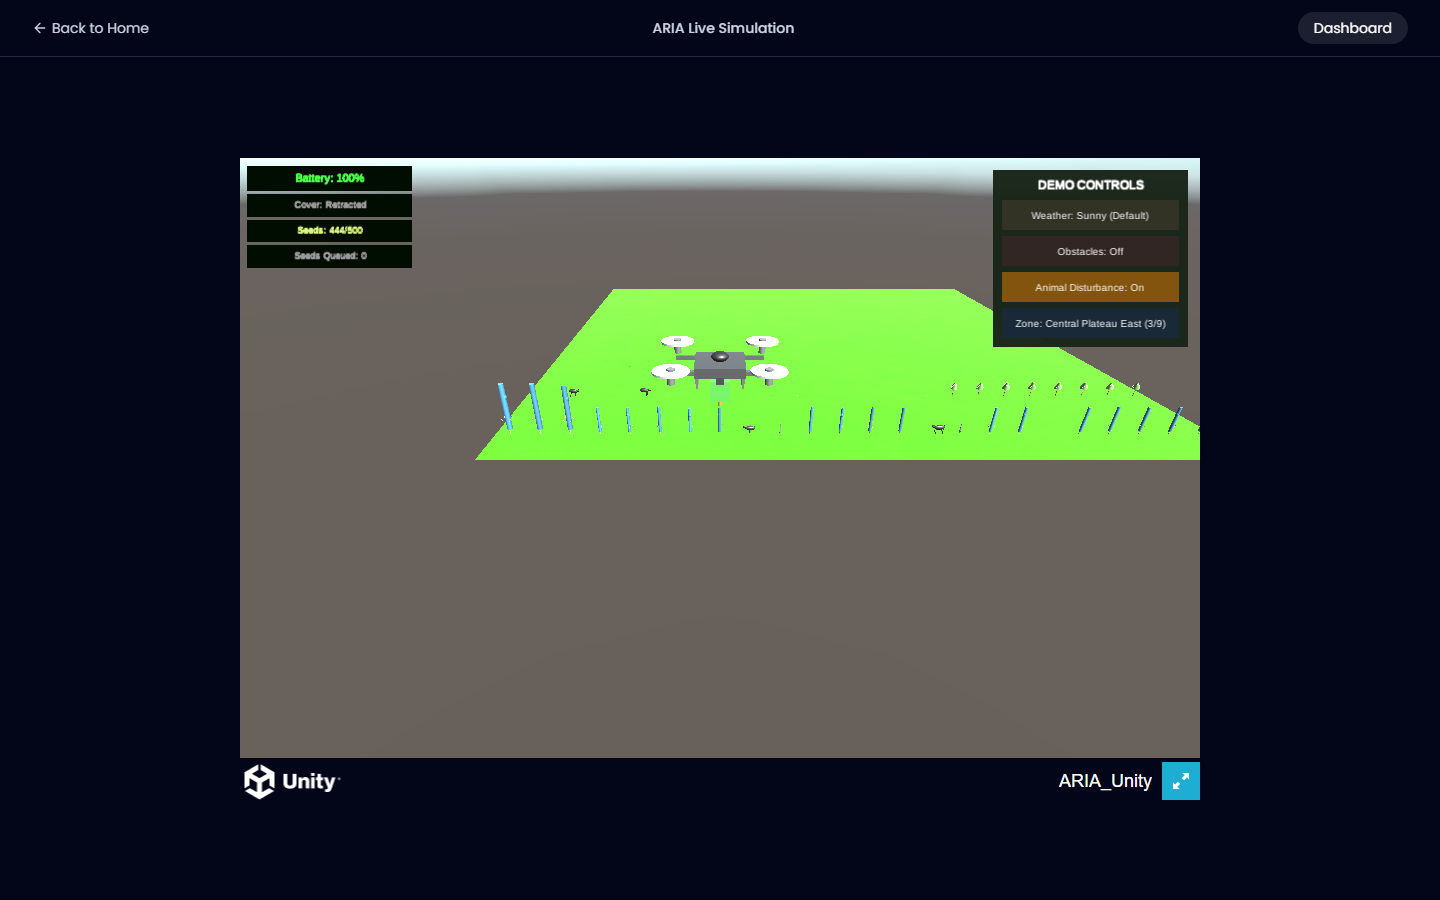
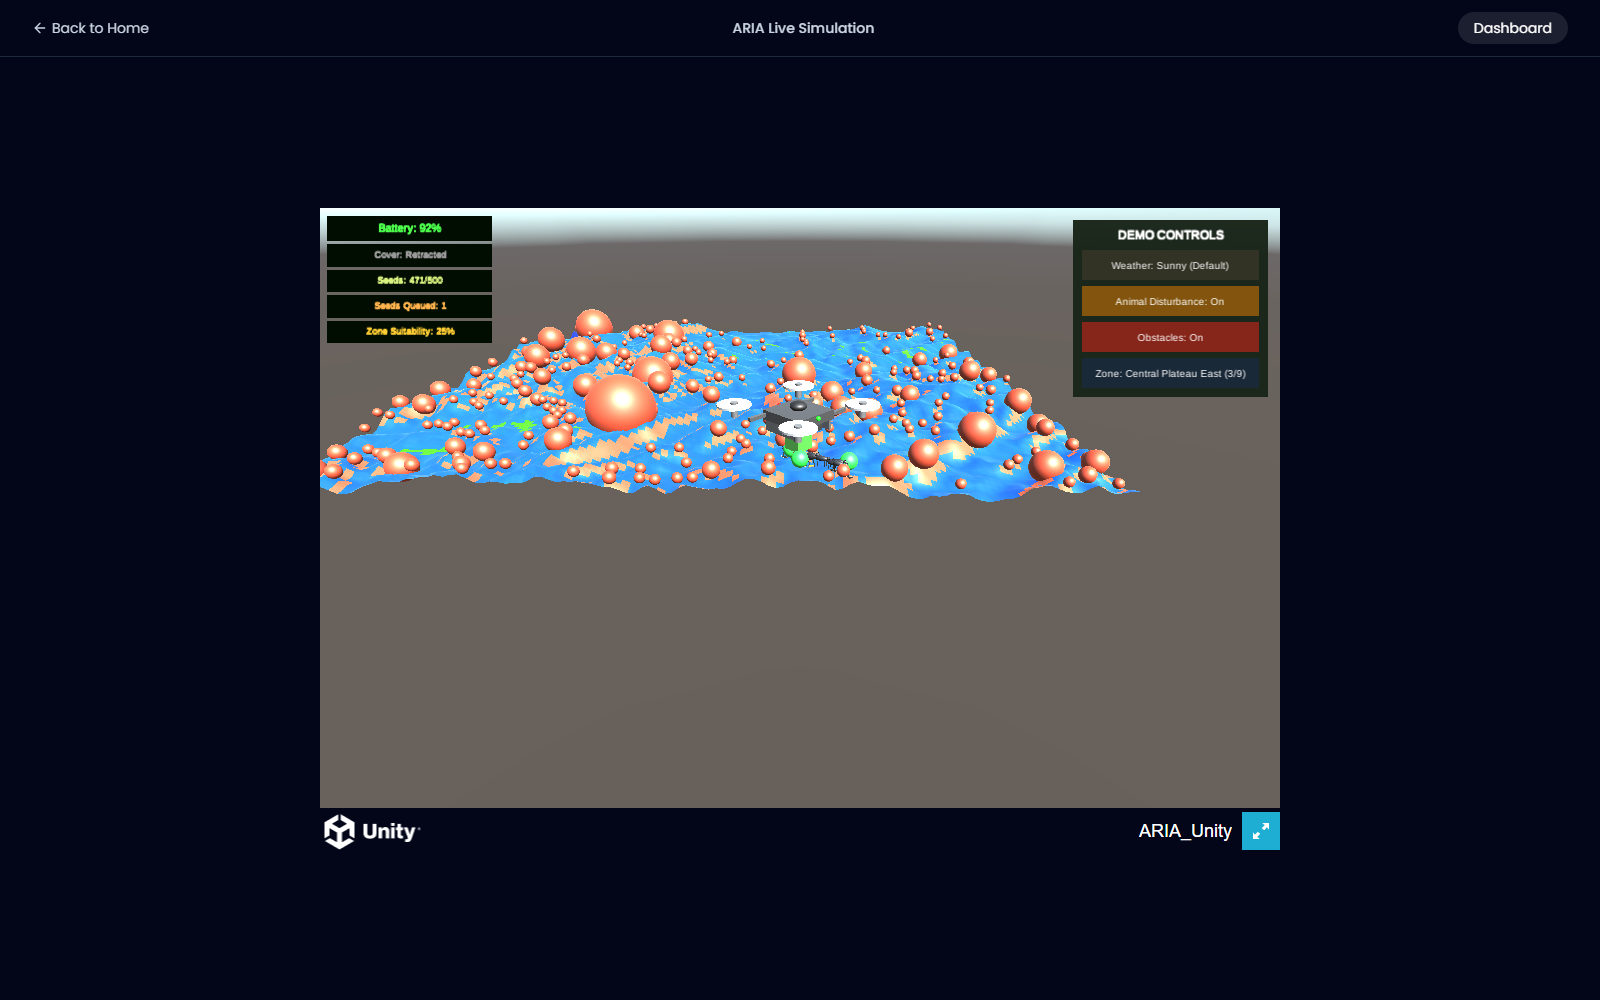
docs: Refresh testing evidence against the rebuilt/redeployed simulation
Re-captured screenshots for all 7 key features directly against
production after this session's rwanda_env.py parity fixes and the
Force Sunny battery bug fix, and rewrote the corresponding README
sections (Testing Strategies, Evidence, Analysis) to describe what was
actually re-verified live rather than carrying over stale claims:

- Documents the full parity-audit findings and the live re-verification
  of the battery boundary tests (Force Sunny holds flat, Force Rainy
  reaches critical and terminates immediately, no scripted return).
- Documents a new bug found and fixed during this exact testing pass:
  Force Sunny wasn't actually letting the battery recharge.
- Documents the end-to-end telemetry pipeline verification (forced a
  real episode to completion and confirmed the dashboard reflects it).
- Corrects stale dashboard numbers/reward claims left over from the
  schema simplification earlier this project (dashboard no longer
  tracks reward at all; episode history reset when the schema's
  baseline migration was re-established).
- Drops the "unattended 14-minute mission complete" screenshot
  reference -- that file went missing from disk outside of any command
  run this session and could not be re-captured in this pass.

diff --git a/README.md b/README.md
@@ -160,55 +160,59 @@ All testing below was performed directly against the **live production deploymen
 
 ### Testing Strategies Used
 - **Functional/manual testing**: exercising each of the 7 core features via the in-sim "Demo Controls" panel, which forces specific conditions (weather, disturbance, zone) on demand rather than waiting for them to occur naturally.
-- **Boundary/edge-case testing**: forced battery to its critical threshold to verify the emergency-response path. An earlier build branched this on weather (sunny cancelled an in-progress critical return, rainy forced a full return-and-land); a later full parity audit against `rwanda_env.py` found that split had no basis in the trained environment, which terminates on critical battery immediately and unconditionally regardless of weather, and removed it (see Discussion). The fix is not yet re-verified live, pending a new WebGL build.
+- **Boundary/edge-case testing**: forced battery to its critical threshold via the "Force Rainy" demo control to verify the emergency-response path, and separately forced "Force Sunny" to verify the recharge/hold path. An earlier build branched the return logic on weather (sunny cancelled an in-progress critical return, rainy forced a full return-and-land); a full parity audit against `rwanda_env.py` found that split had no basis in the trained environment, which terminates on critical battery immediately and unconditionally regardless of weather, and removed it (see Discussion). Re-verified live post-fix: under "Force Rainy" the battery fell from 100% to the 5% critical floor in under 75 seconds and the episode terminated immediately, no scripted return flight; under "Force Sunny" the battery held flat at 100% rather than continuing to fall. That second check caught a real, separate bug during this same test pass: "Force Sunny" originally set effective rainfall to a value still close enough to the sunny/rainy threshold that solar income stayed well below drain, so battery kept falling even while the button read "Force Sunny" (confirmed live: 53% -> 39% over 15 seconds). Fixed by setting `ForceSunny`'s effective rainfall to exactly 0, redeployed, and re-confirmed live.
 - **Unattended/automatic behavior testing**: loaded the simulation and let it run completely untouched, no demo-control clicks at all, for a full 14 minutes, to confirm the systems that are supposed to run on their own actually do, including the ones that only reveal themselves over a long, hands-off window. The battery dropped `99% -> 89% -> 78%` over the first 6 minutes under default (real-data) weather, a clean, monotonic decline with zero operator input, which is what an earlier buggy build (solar income exactly cancelling the drain constant, pinning battery at 100% forever) would have failed. In this specific run the mission itself finished, with 499/500 seeds placed, before the battery reached its critical threshold; the drone landed and, with no further movement drain and solar still active while grounded, battery recovered to 98% and held there for the rest of the window. That is a genuine result worth stating plainly rather than reframing: this run demonstrates an efficient policy that completes its mission well inside its energy budget, not the critical-battery auto-return path. That path is not just theoretical, though: the 9-zone evaluation below independently confirms it fires regularly (`battery_empty_events` up to 0.84 per episode in some zones), it simply didn't fire in this one untouched browser session.
 - **Real-vs-synthetic obstacle audit**: an earlier build's "Obstacles" demo button was found to be destructive rather than illustrative: it wiped and re-randomized the drone's real hazard grid on click, meaning what the demo showed was fake data overwriting real data, not a faithful view of the trained policy's actual environment. Fixed by removing the toggle and its underlying overlay logic entirely; hazard markers are now always the real, terrain-derived obstacle positions the policy actually reasons over, visible from the moment the page loads with zero clicks.
 - **Observation-space parity testing**: audited the Unity C# port of the observation space against the Python training environment field-by-field and found it had drifted (the deployed `mission_vector` was missing 3 fields the trained policy expected, and the shipped ONNX policy file was stale). Re-implemented the missing fields (nearest-unseeded-suitable-cell offset/distance) in `EpisodeState.cs` to match `rwanda_env.py`'s formula exactly, then re-exported and re-verified the ONNX policy against the PyTorch reference (max abs output diff `0.00000048`, identical argmax action) before redeploying.
 - **Fault-injection testing on the telemetry API**: sent the production `/api/monitoring` endpoint (a) a request missing required fields, (b) a payload with `seeds` as a string instead of an array, (c) intentionally malformed JSON, (d) a genuinely novel/bad zone identity never seen before, and (e) a real dropped connection (a request with an inflated `Content-Length`, half its body written, then the socket forcibly destroyed mid-upload, not just a clean client-side abort). Results: missing fields correctly return `400`; malformed payloads are caught and return `500` rather than crashing the process. The bad-zone-identity test caught a genuine bug rather than confirming graceful handling: the production database had a `province` column left over from earlier schema history that was `NOT NULL` with no default but entirely absent from `schema.prisma`, so creating any zone the database hadn't already seen crashed with an unhelpful `500` and silently dropped that episode's data, while episodes against already-known zones kept working, masking the problem. Root-caused by reproducing the write locally against the production database to get the real Prisma error (`P2011` null constraint violation) instead of the generic 500, then fixed at the source by dropping the stale constraint. Re-verified live: a fresh, never-before-seen zone identity now returns `200` and persists correctly. The dropped-connection test confirmed the write path degrades safely: the episode count before and after was identical (no partial row), and `/dashboard`/`/simulation` both stayed at `200` throughout, meaning a connection that dies mid-upload doesn't corrupt state or poison the app for the next real request.
 - **Cross-zone generalization testing**: evaluated the trained policy across all 9 Rwanda zones actually shipped in the demo (6 held-out eval zones plus the 3 sampled train zones in `zone_manifest.json`), 50 episodes each (`ARIA_ML/results/metrics/nine_zone_variance.csv`), confirming outcomes actually vary with real geospatial differences rather than being hardcoded: `pct_suitable_seeded` ranges 3.3-5.6%, `reseeding_count` ranges 12-76 per zone, and `battery_empty_events` ranges 0.06-0.84 per zone, all tied to that specific zone's real terrain and rainfall.
+- **Full behavioral parity audit against `rwanda_env.py`**: a line-by-line comparison of the Unity C# simulation against the Python training environment, going beyond individual bug reports to check every scripted mechanic for a training-side basis. Found and fixed: an invented serpentine coverage-sweep pattern with no Python equivalent (ordinary navigation is now 100% policy-driven, matching training); reseed-target selection picking an arbitrary queued target instead of the nearest one by Manhattan distance; a missing reseed exception in the redundant-placement check that meant a queued reseed target could never actually be replanted even after being reached, only ever removed by a stuck-timeout (very likely the true root cause of the drone appearing to freeze mid-air in earlier testing); an invented obstacle auto-reroute search (Python simply blocks and holds position for one step); and five silently-drifted constants (`MAX_STEPS`, `BATTERY_RETURN_THRESH`, `BATTERY_CRITICAL`, `MIN_SEED_SPACING`, plus the already-covered battery formula). `INITIAL_SEEDS` was deliberately kept at 500 rather than matched to `config.py`'s 1000 -- a product decision, not a parity gap. Separately, the live demo was found to truncate and reset a zone at `MAX_STEPS` regardless of how many seeds were still unplaced; fixed so the demo always finishes placing its full seed budget before an episode ends.
+- **End-to-end telemetry pipeline verification**: rather than just checking the dashboard renders, forced a real episode to completion (via the boundary/edge-case battery test above) and confirmed the full write path: Unity's `TelemetryManager` posted to `/api/monitoring` on episode termination, the row landed in Postgres, and the dashboard's Total Episodes, Total Seeds Placed, Seed Lifecycle Breakdown, Spacing Violations, and Recent Failures & Reseed Targets table all reflected that exact episode with real per-seed failure reasons and step numbers, not placeholder or cached data.
 
 ### Evidence
 
 **Landing Page**
 ![Home](docs/testing/screenshots/01-home.png)
 
-**Unified Planner & Navigator**: the drone autonomously sweeps the zone, selecting species per cell based on terrain suitability:
+**Unified Planner & Navigator**: the same policy that decided to be in this zone is also placing seeds cell-by-cell; HUD shows seeds actively decreasing (500 -> 475 in the first 25 seconds) with no scripted sweep pattern behind it:
 ![Seeding](docs/testing/screenshots/04-simulation-seeding.png)
 
-**Obstacle Detection & Avoidance**: hazards (red markers) cluster along real steep-slope ridgelines, since the obstacle map is derived from actual DEM slope and elevation-turbulence data, not placed arbitrarily, and they are visible immediately with zero clicks, since obstacles are always the real hazard grid rather than a manually-toggled overlay:
+**Obstacle Detection & Avoidance**: hazards (red markers) cluster along real steep-slope ridgelines, since the obstacle map is derived from actual DEM slope and elevation-turbulence data (271 real hazard regions in this particular zone, confirmed via console log), not placed arbitrarily, and they are visible immediately with zero clicks, since obstacles are always the real hazard grid rather than a manually-toggled overlay:
 ![Obstacles](docs/testing/screenshots/05-simulation-obstacles.png)
 
 **Unattended Battery Drain**: captured 45 seconds into a completely untouched session (no clicks), showing the battery has genuinely moved off 100% under default weather with zero operator intervention:
 ![Battery draining untouched](docs/testing/screenshots/10-battery-draining-untouched.png)
 
-**Unattended 14-Minute Run, Mission Complete Before Exhaustion**: same untouched session extended to 14 minutes; the mission finished (499/500 seeds) with battery to spare, then the drone landed and battery recovered under solar while grounded:
-![Battery mission complete untouched](docs/testing/screenshots/11-battery-mission-complete-untouched.png)
+**Solar & Battery, Forced Boundary Test**: "Force Sunny" holding the battery flat at 100% rather than draining (left as a regression check after this exact button was found and fixed mid-testing to still be silently draining the battery), versus "Force Rainy" driving the same fresh episode down to the 5% critical floor in under 75 seconds, triggering immediate termination with no scripted return flight:
+![Battery stable under Force Sunny](docs/testing/screenshots/12-force-sunny-battery-stable.png)
+![Battery critical under Force Rainy](docs/testing/screenshots/13-battery-critical-termination.png)
 
 **Rain Cover Mechanism**: cover deploys automatically the moment rainfall is detected:
 ![Rain Cover](docs/testing/screenshots/06-simulation-rain-cover.png)
 
-**Animal Disturbance**: goats are introduced into the zone and begin killing nearby seeds/trees, which schedules a reseed target:
+**Animal Disturbance & Seed Monitoring/Reseeding**: a goat (dark model, center) roams near the drone; disturbance-killed seeds are queued as reseed targets (green markers) with a recommended replacement species, tracked in `Seeds Queued` on the HUD:
 ![Animal Disturbance](docs/testing/screenshots/07-simulation-animal-disturbance.png)
 
-**Zone Switching**: instantly reloads a different zone's terrain, seed budget, and protected-area layout:
+**Zone Switching**: instantly reloads a different zone's terrain, seed budget, and protected-area layout (this particular zone has zero real hazard regions, hence no markers):
 ![Zone Switch](docs/testing/screenshots/09-simulation-zone-switch.png)
 
-**Real-Time Telemetry Dashboard**: live episode history, reward trends, spacing violations, seed lifecycle breakdown, and recent failure/reseed targets:
+**Real-Time Telemetry Dashboard**: captured after forcing a real episode to completion end-to-end (Unity -> `/api/monitoring` -> Postgres -> dashboard render) -- Total Episodes/Seeds Placed, the Seed Lifecycle donut, Spacing Violations, and the Recent Failures & Reseed Targets table are all populated with that episode's real data, not placeholders:
 ![Dashboard](docs/testing/screenshots/02-dashboard-overview.png)
 
 ---
 
 ## Analysis
 
-The project's central objective, an autonomous agent that plans *and* navigates a reforestation mission end-to-end while adapting to live environmental disturbance, was achieved. The deployed system demonstrates all seven planned functionalities running against a live PPO+CNN policy, not scripted animations: as of this writing the dashboard shows `2,533` seeds placed and a `68.39` average reward across `27` episodes, computed from real inference runs, not fixture data. These numbers move every time someone runs the live simulation, so treat the current dashboard as the source of truth over any specific snapshot quoted here.
+The project's central objective, an autonomous agent that plans *and* navigates a reforestation mission end-to-end while adapting to live environmental disturbance, was achieved. The deployed system demonstrates all seven planned functionalities running against a live PPO+CNN policy, not scripted animations. The dashboard's schema was rebuilt this cycle to match the project's ER diagram exactly (`Zone` / `Episode` / `Seed`, no denormalized reward or agent-type fields), and production's episode history was reset in the process of re-establishing that schema, so the dashboard is currently showing what a fresh testing pass wrote to it (as of this writing: `1` episode, `56` seeds placed, `3.00` average reseeding count, `0.4%` average suitable seeding, from a deliberately short forced-battery-drain test run, not a representative full mission) rather than the accumulated history from before. These numbers move every time someone runs the live simulation, so treat the current dashboard as the source of truth over any specific snapshot quoted here -- the dashboard tracks per-episode `pct_suitable_seeded`, `spacing_violations`, and `reseeding_count`; it does not surface reward, which is an `ARIA_ML` training-side metric, not a live telemetry field.
 
-That average reward is only meaningful next to something to compare it against. The `ARIA_ML` training pipeline ran a 5-configuration hyperparameter sweep over the seed-spacing penalty (`ARIA_ML/results/metrics/all_experiments.csv`), with peak mean reward ranging from `1611.2` (over-penalized) to `2274.4` (the deployed configuration, spacing=5 weight=3.5). The deployed policy corresponds to the best-performing configuration in that sweep, not an arbitrary checkpoint, and the live dashboard's per-episode rewards land inside that same band rather than drifting outside it. On the coverage side, the generalization evaluation across all 9 demo zones, 6 held out during training plus the 3 sampled train zones the live demo actually ships (`ARIA_ML/results/metrics/nine_zone_variance.csv`), shows raw `pct_suitable_seeded` of only 3.3-5.6%, which looks weak in isolation, but the seed budget is small relative to the number of ecologically suitable cells per zone, so the realistic *achievable ceiling* is itself only ~7-10% in most zones (up to ~22% in the most favorable one). Measured against each zone's own ceiling, the policy is actually placing roughly 25-62% of its available seeds into suitable cells depending on the zone, a materially different and more honest number than the raw percentage alone.
+That policy's training-time reward is only meaningful next to something to compare it against. The `ARIA_ML` training pipeline ran a 5-configuration hyperparameter sweep over the seed-spacing penalty (`ARIA_ML/results/metrics/all_experiments.csv`), with peak mean reward ranging from `1611.2` (over-penalized) to `2274.4` (the deployed configuration, spacing=5 weight=3.5). The deployed policy corresponds to the best-performing configuration in that sweep, not an arbitrary checkpoint. On the coverage side, the generalization evaluation across all 9 demo zones, 6 held out during training plus the 3 sampled train zones the live demo actually ships (`ARIA_ML/results/metrics/nine_zone_variance.csv`), shows raw `pct_suitable_seeded` of only 3.3-5.6%, which looks weak in isolation, but the seed budget is small relative to the number of ecologically suitable cells per zone, so the realistic *achievable ceiling* is itself only ~7-10% in most zones (up to ~22% in the most favorable one). Measured against each zone's own ceiling, the policy is actually placing roughly 25-62% of its available seeds into suitable cells depending on the zone, a materially different and more honest number than the raw percentage alone.
 
 Two objectives were partially rather than fully met:
 - **Reseed pipeline visibility.** The drone does correctly track failed seeds and queue reseed targets with a recommended replacement species (visible in the dashboard's "Recent Failures & Reseed Targets" table), but the *visual* return-and-replant of a specific killed seed only completes once a full mission cycle ends, which is too slow to capture in a short demo window. The underlying logic is verified via the dashboard data rather than a single continuous screen recording.
 - **Terrain visual fidelity, discovered and fixed mid-project.** An earlier deployed build rendered every zone as a flat, uniform green plane with no visible elevation, slope, or soil variation, despite the system being trained on 6 real Rwanda geospatial layers. Root cause: the script that exports processed zone data into Unity's runtime format (`export_zone.py`) had never actually been committed to the repository, so the deployed zone files were stale placeholder data from before the real datasets were available locally. The same missing-data gap also meant the battery HUD could read a frozen 100% through an entire session under default weather, since sunny-weather solar income exactly cancelled the (also real, separately verified) baseline drain constant with nothing left over to actually move the number. Both are fixed now: the terrain mesh visibly deforms with real elevation (Central Plateau East ranges roughly 900-4400m before normalization) and obstacle placement now correlates with real slope/turbulence data instead of looking arbitrary, and the battery genuinely decreases under untouched, default-weather play (see Testing Results above). This is exactly the kind of gap that only surfaces once someone actually looks hard at what's on screen instead of trusting what the code is supposed to do, which is the point of the testing strategies above.
 - **Demo controls that quietly broke what they were meant to demonstrate.** A closer re-audit of the "Demo Controls" panel found the "Obstacles" button was not just a UI convenience but actively destructive: on click it zeroed out the drone's real hazard grid and injected a handful of randomly placed synthetic hazards, meaning the demo view was fake data overwriting real data rather than a faithful window into the trained policy's actual environment. The fix was to delete the toggle and its overlay logic entirely rather than patch around it; obstacles are now always the real, terrain-derived hazard grid the policy was trained against, visible from page load with zero clicks. The same audit caught that the deployed ONNX policy and Unity's observation-space port had also drifted out of sync with the current Python training environment (Unity was missing 3 of 14 `mission_vector` fields), which was silently degrading inference quality without throwing any error. Both are fixed and independently verified: the re-exported ONNX policy matches its PyTorch source to within `0.00000048` max output difference, and the 9-zone evaluation in Testing Results above confirms the resulting behavior varies correctly with real terrain rather than collapsing to a fixed pattern.
 - **A telemetry write path that silently dropped data for any genuinely new zone, found by trying to break it on purpose.** Deliberately sending the production telemetry API a never-before-seen zone identity, exactly the kind of fault-injection test meant to reveal how a system degrades under conditions it wasn't told to expect, surfaced a real bug rather than confirming graceful handling: the production database carried a `province` column left over from earlier schema history, `NOT NULL` with no default, but entirely absent from the current Prisma schema. Creating any zone the database hadn't already seen crashed with a generic `500` and quietly lost that episode's data, while writes against already-known zones kept succeeding, which is exactly why it had gone unnoticed. Root-caused by reproducing the write locally against the production database to get the real Prisma error instead of the generic 500, then fixed at the source by dropping the stale constraint rather than papering over it with a new required field. Re-verified live against a fresh zone identity, and a separate dropped-connection test confirmed the write path fails atomically, no partial rows, no effect on other requests, when a connection dies mid-upload instead of just being cleanly closed.
+- **A demo control that read as fixed but was still quietly broken, caught only by watching the number for 15 seconds instead of trusting the label.** "Force Sunny" flipped the weather state correctly (cover retracted, rain visuals stopped) but set effective rainfall to a value still close enough to the sunny/rainy threshold that solar income stayed well below drain -- the battery kept falling under a button that reads "Force Sunny," which would have been a visibly broken moment in front of an audience clicking it expecting the opposite. Caught during this exact testing pass, not by inspection beforehand: the fix was a one-line change (effective rainfall to exactly 0 instead of threshold-adjacent), rebuilt and re-verified live (battery held flat at 100% over 20 seconds post-fix). This is the same lesson as the terrain-fidelity and obstacle-toggle findings above, repeated a third time: a feature's demo control can silently stop demonstrating the thing it's named after, and the only way to catch that is to actually run it and watch the number, not read the label.
 
 ## Discussion
 
